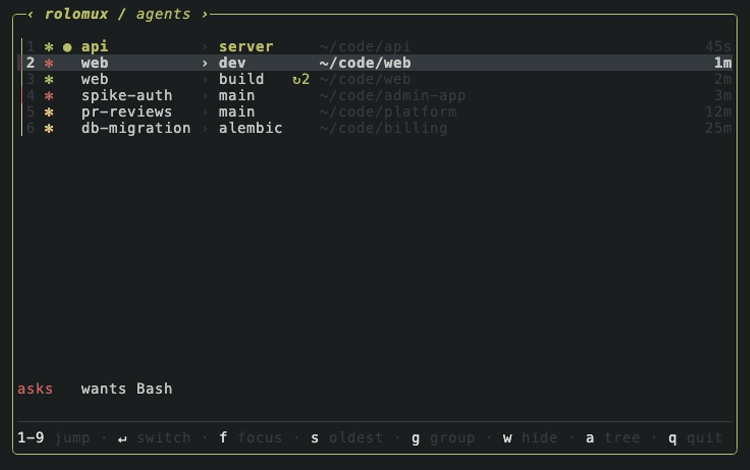
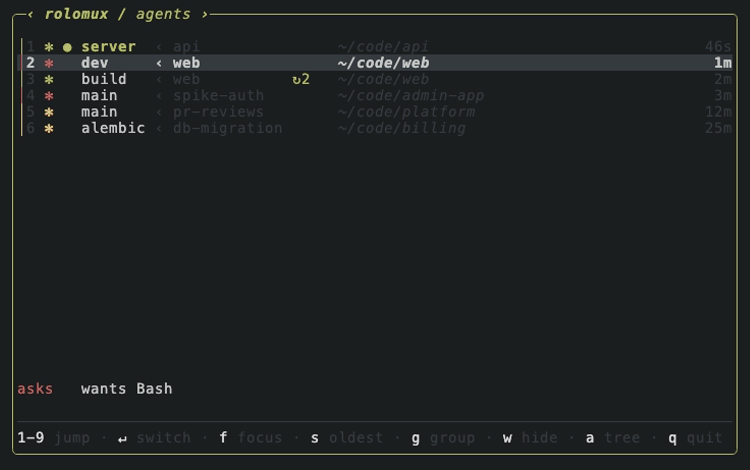
Lead agent rows with the agent name, session dimmed after it (#224)

Changed region(s): [[0.092, 0.0894, 0.368, 0.2979], [0.4293, 0.1191, 0.5827, 0.1787], [0.5827, 0.2681, 0.6133, 0.2979]]

diff --git a/src/ui/agents.rs b/src/ui/agents.rs
@@ -8,6 +8,8 @@ use crate::model::AgentRow;
 const MAX_WINDOW_WIDTH: usize = 24;
 const MAX_SESSION_WIDTH: usize = 24;
 const DETAIL_INDENT: usize = 7;
+/// Wide enough that the path reads as its own column, apart from the dim session name.
+const PATH_GAP: &str = "   ";
 
 
 /// Header text for a state's section.
@@ -68,8 +70,8 @@ struct LeadColumns {
 
 #[allow(clippy::too_many_arguments)]
 /// One agent row: jump number, state glyph (flat list only), the `●` for the
-/// window you came from (whose names also take the state color), session,
-/// window, path, and the time in state
+/// window you came from (whose agent name also takes the state color), the
+/// agent's window name, its session dimmed, path, and the time in state
 /// right-aligned at the end.
 fn agent_item(row: &AgentRow, number: usize, selected: bool, lead: LeadColumns, name_width: usize, window_width: usize, badge_width: usize, badge_glyph: &str, age_width: usize, width: usize, home: Option<&str>) -> ListItem<'static> {
     let color = agent_color(row.state);
@@ -84,14 +86,14 @@ fn agent_item(row: &AgentRow, number: usize, selected: bool, lead: LeadColumns, 
         " ".repeat(badge_width + 1)
     };
     let lead_width = 2 * (lead.glyph as usize + lead.here as usize);
-    let prefix_width = 1 + 2 + lead_width + name_width + 3 + window_width + badge_cell.chars().count() + 1;
+    let prefix_width = 1 + 2 + lead_width + name_width + 3 + window_width + badge_cell.chars().count() + PATH_GAP.len();
     let age_cell = if age_width == 0 { 0 } else { age_width + 2 };
     let path_room = width.saturating_sub(prefix_width + age_cell);
     let path = truncate_end(&tilde_home(&row.path, home), path_room);
-    let path = if age_cell == 0 { path } else { format!("{path:<path_room$}  {:>age_width$}", state_age(row)) };
+    let (path, age) = if age_cell == 0 { (path, String::new()) } else { (format!("{path:<path_room$}"), format!("  {:>age_width$}", state_age(row))) };
     let dim = secondary(selected);
-    let name_style = if row.dormant { dormant_session(selected) } else { Style::default() };
-    let name_style = if row.here && !row.dormant { Style::default().fg(color).add_modifier(Modifier::BOLD) } else { name_style };
+    let session_style = if row.dormant { dormant_session(selected) } else { dim };
+    let window_style = if row.dormant { session_style } else if row.here { Style::default().fg(color).add_modifier(Modifier::BOLD) } else { Style::default() };
     let mut spans = vec![Span::styled("│", Style::default().fg(color)), Span::styled(label, dim)];
     if lead.glyph {
         spans.push(Span::styled(AGENT_GLYPH, Style::default().fg(color)));
@@ -101,12 +103,13 @@ fn agent_item(row: &AgentRow, number: usize, selected: bool, lead: LeadColumns, 
         spans.push(Span::styled(if row.here { "● " } else { "  " }, Style::default().fg(color)));
     }
     spans.extend([
-        Span::styled(name, name_style),
-        Span::styled(" › ", dim),
-        Span::styled(window, name_style),
+        Span::styled(window, window_style),
+        Span::styled(" ‹ ", dim),
+        Span::styled(name, session_style),
         Span::styled(badge_cell, Style::default().fg(color)),
-        Span::raw(" "),
-        Span::styled(path, dim),
+        Span::raw(PATH_GAP),
+        Span::styled(path, dim.add_modifier(Modifier::ITALIC)),
+        Span::styled(age, dim),
     ]);
     ListItem::new(Line::from(spans))
 }
@@ -296,13 +299,13 @@ mod tests {
     #[test]
     fn rows_are_numbered_in_display_order_and_overflow_is_blank() {
         let buf = render(&mixed(), None);
-        assert!(text_of(&buf)[row_with(&buf, "beta") as usize].contains("│1 beta"));
-        assert!(text_of(&buf)[row_with(&buf, "gamma") as usize].contains("│2 gamma"));
-        assert!(text_of(&buf)[row_with(&buf, "alpha") as usize].contains("│3 alpha"));
+        assert!(text_of(&buf)[row_with(&buf, "beta") as usize].contains("│1 win-beta"));
+        assert!(text_of(&buf)[row_with(&buf, "gamma") as usize].contains("│2 win-gamma"));
+        assert!(text_of(&buf)[row_with(&buf, "alpha") as usize].contains("│3 win-alpha"));
         let many = state_with((0..11).map(|i| (Box::leak(format!("s{i:02}").into_boxed_str()) as &str, vec![pane("%1", AgentState::Working, "/p")])).collect());
         let buf = render_sized(&many, 40);
-        assert!(text_of(&buf)[row_with(&buf, "s08") as usize].contains("│9 s08"));
-        assert!(text_of(&buf)[row_with(&buf, "s09") as usize].contains("│  s09"));
+        assert!(text_of(&buf)[row_with(&buf, "s08") as usize].contains("│9 win-s08"));
+        assert!(text_of(&buf)[row_with(&buf, "s09") as usize].contains("│  win-s09"));
     }
 
     fn render_sized(st: &PickerState, height: u16) -> Buffer {
@@ -332,28 +335,30 @@ mod tests {
         st.toggle_agent_layout();
         let buf = render(&st, None);
         let y = row_with(&buf, "gamma");
-        assert!(text_of(&buf)[y as usize].contains(&format!("{AGENT_GLYPH} gamma")));
+        assert!(text_of(&buf)[y as usize].contains(&format!("{AGENT_GLYPH} win-gamma")));
         let x = (0..buf.area.width).find(|x| buf[(*x, y)].symbol() == AGENT_GLYPH).unwrap();
         assert_eq!(buf[(x, y)].fg, Color::Yellow);
     }
 
     #[test]
-    fn window_you_came_from_gets_a_dot_and_bold_names_in_its_state_color() {
+    fn window_you_came_from_gets_a_dot_and_its_agent_name_in_its_state_color() {
         let mut st = mixed_from_gamma();
         let buf = render(&st, None);
         let y = row_with(&buf, "gamma");
-        assert!(text_of(&buf)[y as usize].contains("● gamma"));
+        let line = &text_of(&buf)[y as usize];
+        assert!(line.contains("● win-gamma ‹ gamma"));
         let dot = (0..buf.area.width).find(|x| buf[(*x, y)].symbol() == "●").unwrap();
         assert_eq!(buf[(dot, y)].fg, Color::Yellow, "the row's state color, not the attached color");
-        let name = text_of(&buf)[y as usize].chars().position(|c| c == 'g').unwrap() as u16;
-        assert!(buf[(name, y)].modifier.contains(Modifier::BOLD));
-        assert_eq!(buf[(name, y)].fg, Color::Yellow);
-        let window = name + text_of(&buf)[y as usize].chars().skip(name as usize).collect::<String>().find("win-gamma").unwrap() as u16;
+        let window = line.chars().position(|c| c == 'w').unwrap() as u16;
+        assert!(buf[(window, y)].modifier.contains(Modifier::BOLD));
         assert_eq!(buf[(window, y)].fg, Color::Yellow);
-        assert!(text_of(&buf)[row_with(&buf, "beta") as usize].contains("│1   beta"), "other rows reserve the dot slot");
+        let session = window + line.chars().skip(window as usize).collect::<String>().find("‹ gamma").unwrap() as u16 + 2;
+        assert_ne!(buf[(session, y)].fg, Color::Yellow, "the session stays dim");
+        assert!(!buf[(session, y)].modifier.contains(Modifier::BOLD));
+        assert!(text_of(&buf)[row_with(&buf, "beta") as usize].contains("│1   win-beta"), "other rows reserve the dot slot");
         st.toggle_agent_layout();
         let buf = render(&st, None);
-        assert!(text_of(&buf)[row_with(&buf, "gamma") as usize].contains(&format!("{AGENT_GLYPH} ● gamma")));
+        assert!(text_of(&buf)[row_with(&buf, "gamma") as usize].contains(&format!("{AGENT_GLYPH} ● win-gamma")));
     }
 
     #[test]
@@ -361,7 +366,7 @@ mod tests {
         let mut st = mixed_from_gamma();
         st.current_session = Some("elsewhere".into());
         let buf = render(&st, None);
-        assert!(text_of(&buf)[row_with(&buf, "beta") as usize].contains("│1 beta"));
+        assert!(text_of(&buf)[row_with(&buf, "beta") as usize].contains("│1 win-beta"));
     }
 
     #[test]
@@ -373,6 +378,19 @@ mod tests {
         assert_eq!(header_x, gutter_x, "header starts in the gutter column");
         assert!(text_of(&buf)[y as usize].contains("DONE ───"));
         assert_eq!(buf[(header_x + 5, y)].fg, Color::Yellow);
+    }
+
+    #[test]
+    fn path_is_italic_but_the_age_is_not() {
+        let _clock = crate::ui::tests::freeze_clock(10_000);
+        let st = state_with(vec![("alpha", vec![AgentPane { since: 10_000 - 720, ..pane("%1", AgentState::Done, "/pa") }])]);
+        let buf = render(&st, None);
+        let y = row_with(&buf, "alpha");
+        let line = &text_of(&buf)[y as usize];
+        let at = |needle: &str| line[..line.find(needle).unwrap()].chars().count() as u16;
+        assert!(buf[(at("/pa"), y)].modifier.contains(Modifier::ITALIC));
+        assert!(!buf[(at("12m"), y)].modifier.contains(Modifier::ITALIC));
+        assert!(!buf[(at("alpha"), y)].modifier.contains(Modifier::ITALIC));
     }
 
     #[test]
@@ -589,7 +607,7 @@ mod tests {
         let long = "s".repeat(60);
         let st = state_with(vec![(long.as_str(), vec![pane("%1", AgentState::Done, "/the/path")])]);
         let text = text_of(&render(&st, None)).join("\n");
-        assert!(text.contains(&format!("{}… ›", "s".repeat(MAX_SESSION_WIDTH - 1))));
+        assert!(text.contains(&format!("‹ {}… ", "s".repeat(MAX_SESSION_WIDTH - 1))));
         assert!(text.contains("/the/path"));
     }
 
@@ -605,6 +623,6 @@ mod tests {
     #[test]
     fn no_badge_column_when_no_row_has_background_work() {
         let buf = render(&mixed(), None);
-        assert!(text_of(&buf)[row_with(&buf, "alpha") as usize].contains("win-alpha /w/alpha"));
+        assert!(text_of(&buf)[row_with(&buf, "alpha") as usize].contains("win-alpha ‹ alpha   /w/alpha"));
     }
 }
